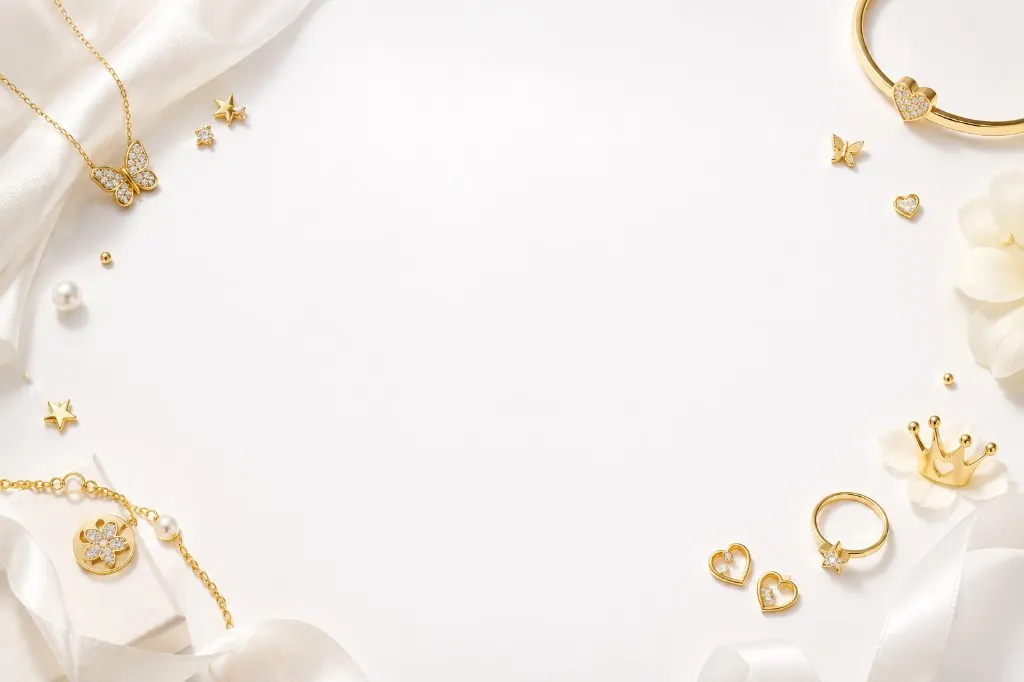
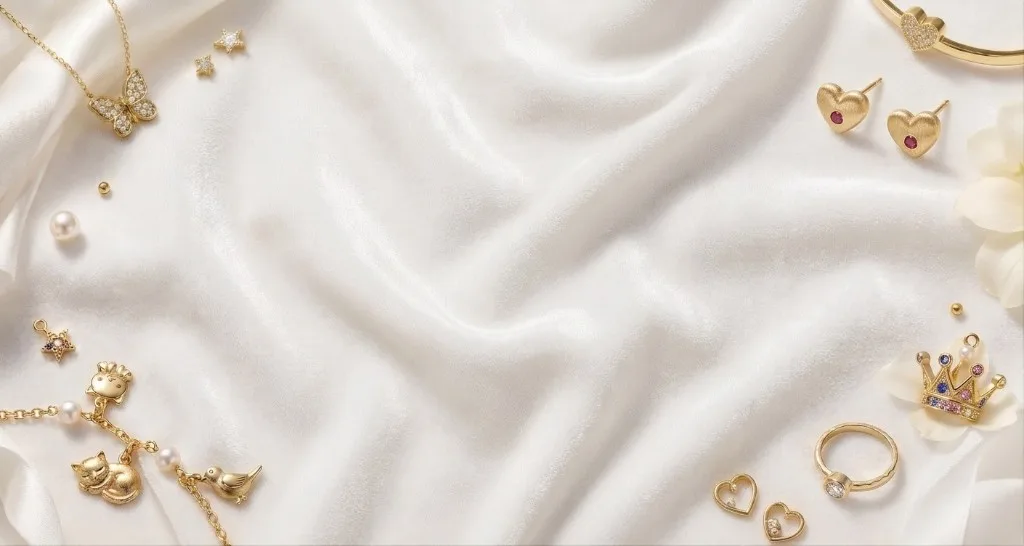
Update hero background in documentation and changelog to reflect new design featuring children's jewelry on white fabric; replace old image with updated asset.

diff --git a/docs/07-roadmap/changelog.md b/docs/07-roadmap/changelog.md
@@ -3,6 +3,10 @@
 هر تغییر معنادار در ساختار یا قابلیتها اینجا ثبت میشود.
 تغییرات جزئی (اصلاح تایپ، تغییر استایل) لازم نیست ثبت شوند.
 
+## زبان بصری — عکس هیرو خانه
+
+- پسزمینهٔ هیرو با ترکیب جواهرات کودکانه روی پارچهٔ سفید جایگزین شد (`src/assets/images/hero-gold-products.webp`)
+
 ## استقرار Docker — seed بار اول
 
 - اگر جدول `users` خالی باشد، بعد از مایگریشن `db:seed` اجرا میشود تا کاتالوگ نمونه روی سرور خالی نماند
@@ -22,7 +26,7 @@
 ## زبان بصری — هیرو تمامصفحه خانه
 
 - هیرو از بالای ویوپورت و پشت منوی شناور شروع میشود
-- پسزمینهٔ لوکال محصولات طلا (`src/assets/images/hero-gold-products.webp`)
+- پسزمینهٔ لوکال جواهرات روی پارچهٔ سفید (`src/assets/images/hero-gold-products.webp`)
 - متن داخل کارت شیشهای با بردر گرادیانی و ورود نرم
 
 ## زبان بصری — آیکون مناسبت بهجای ایموجی

diff --git a/docs/04-ui/design-system.md b/docs/04-ui/design-system.md
@@ -91,7 +91,7 @@
 - شعاع پایه: `1.25rem` (توکن `--radius`)؛ پنلهای شاخص `rounded-3xl` یا کپسول.
 - سایهٔ کارت و شیشه: `.shadow-glow` (طلایی نرم)، نه `shadow-xs` تخت.
 - درخشش هیرو: کامپوننت `GoldGlow` و کلاس `.gold-glow`.
-- هیرو خانه تمامعرض از بالای صفحه (پشت منوی شناور) است؛ پسزمینهٔ لوکال محصولات طلا و کارت `GlassSurface` همان شیشهٔ هدر.
+- هیرو خانه تمامعرض از بالای صفحه (پشت منوی شناور) است؛ پسزمینهٔ لوکال جواهرات روی پارچهٔ سفید و کارت `GlassSurface` همان شیشهٔ هدر.
   در موبایل ارتفاع هیرو به کارت میرسد تا زیر عکس خالی نماند؛ دسکتاپ تمامصفحه است.
 
 ## شیشه

diff --git a/docs/CONTEXT.md b/docs/CONTEXT.md
@@ -3,7 +3,7 @@
 > این فایل کوتاهترین راه برای فهمیدن «الان کجای کار هستیم» است.
 > **در پایان هر تسک اجباراً بهروز میشود.** اگر این فایل کهنه باشد، کل سیستم مستندات بیارزش میشود.
 
-**آخرین بهروزرسانی:** Docker در بار اول اگر users خالی باشد seed میزند؛ متن خالی خانه دیگر شبیه خطای فیلتر نیست.
+**آخرین بهروزرسانی:** عکس هیرو خانه با ترکیب جواهرات روی پارچهٔ سفید جایگزین شد.
 
 ---
 
